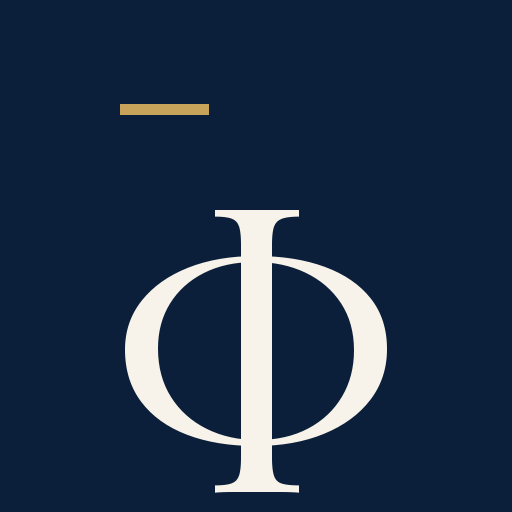
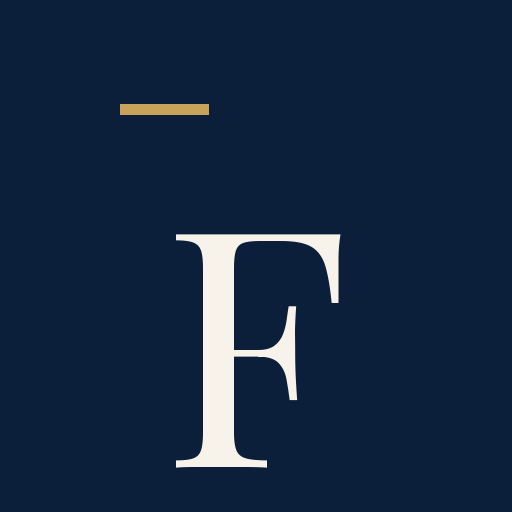
Rename brand to Fuzion Societe
Claude-Session: https://claude.ai/code/session_01KAiZQ9kkVe9AiNjJ8336M8

Changed region(s): [[0.2188, 0.4062, 0.7812, 0.9688]]

diff --git a/index.html b/index.html
@@ -3,7 +3,7 @@
 <head>
 <meta charset="utf-8">
 <meta name="viewport" content="width=device-width, initial-scale=1, viewport-fit=cover">
-<title>ФінПульс — фінансові новини світу українською</title>
+<title>Fuzion Societe — фінансові новини світу українською</title>
 <meta name="description" content="Головні фінансові новини провідних світових видань — коротко, українською, з посиланням на оригінал.">
 <meta name="theme-color" content="#0B1F3A">
 <link rel="manifest" href="manifest.webmanifest">
@@ -47,7 +47,7 @@
 <body>
 <header><div class="wrap">
   <div class="rule"></div>
-  <h1>ФінПульс</h1>
+  <h1>Fuzion Societe</h1>
   <p>Провідні фінансові видання світу — коротко, українською. <a href="https://t.me/finpuls_ua">Telegram&nbsp;→</a></p>
 </div></header>
 <nav id="filters" aria-label="Категорії"></nav>

diff --git a/scripts/make_cards.py b/scripts/make_cards.py
@@ -89,8 +89,8 @@ def make(post, out):
     small = font("Inter.ttf", 26, 500)
     d.text((PAD, H - 92), f"Джерело: {post['source']}", font=small, fill=MIST)
     brand = font("PlayfairDisplay.ttf", 34, 700)
-    bw = d.textlength("ФінПульс", font=brand)
-    d.text((W - PAD - bw, H - 98), "ФінПульс", font=brand, fill=GOLD)
+    bw = d.textlength("Fuzion Societe", font=brand)
+    d.text((W - PAD - bw, H - 98), "Fuzion Societe", font=brand, fill=GOLD)
     img.save(out, "PNG", optimize=True)
 
 

diff --git a/EDITOR.md b/EDITOR.md
@@ -1,4 +1,4 @@
-# ФінПульс: editor's procedure
+# Fuzion Societe: editor's procedure
 
 One editing run turns fresh English-language finance headlines into short Ukrainian posts.
 GitHub Actions does the rest (reads feeds hourly, draws cards, posts to Telegram, serves the site).
